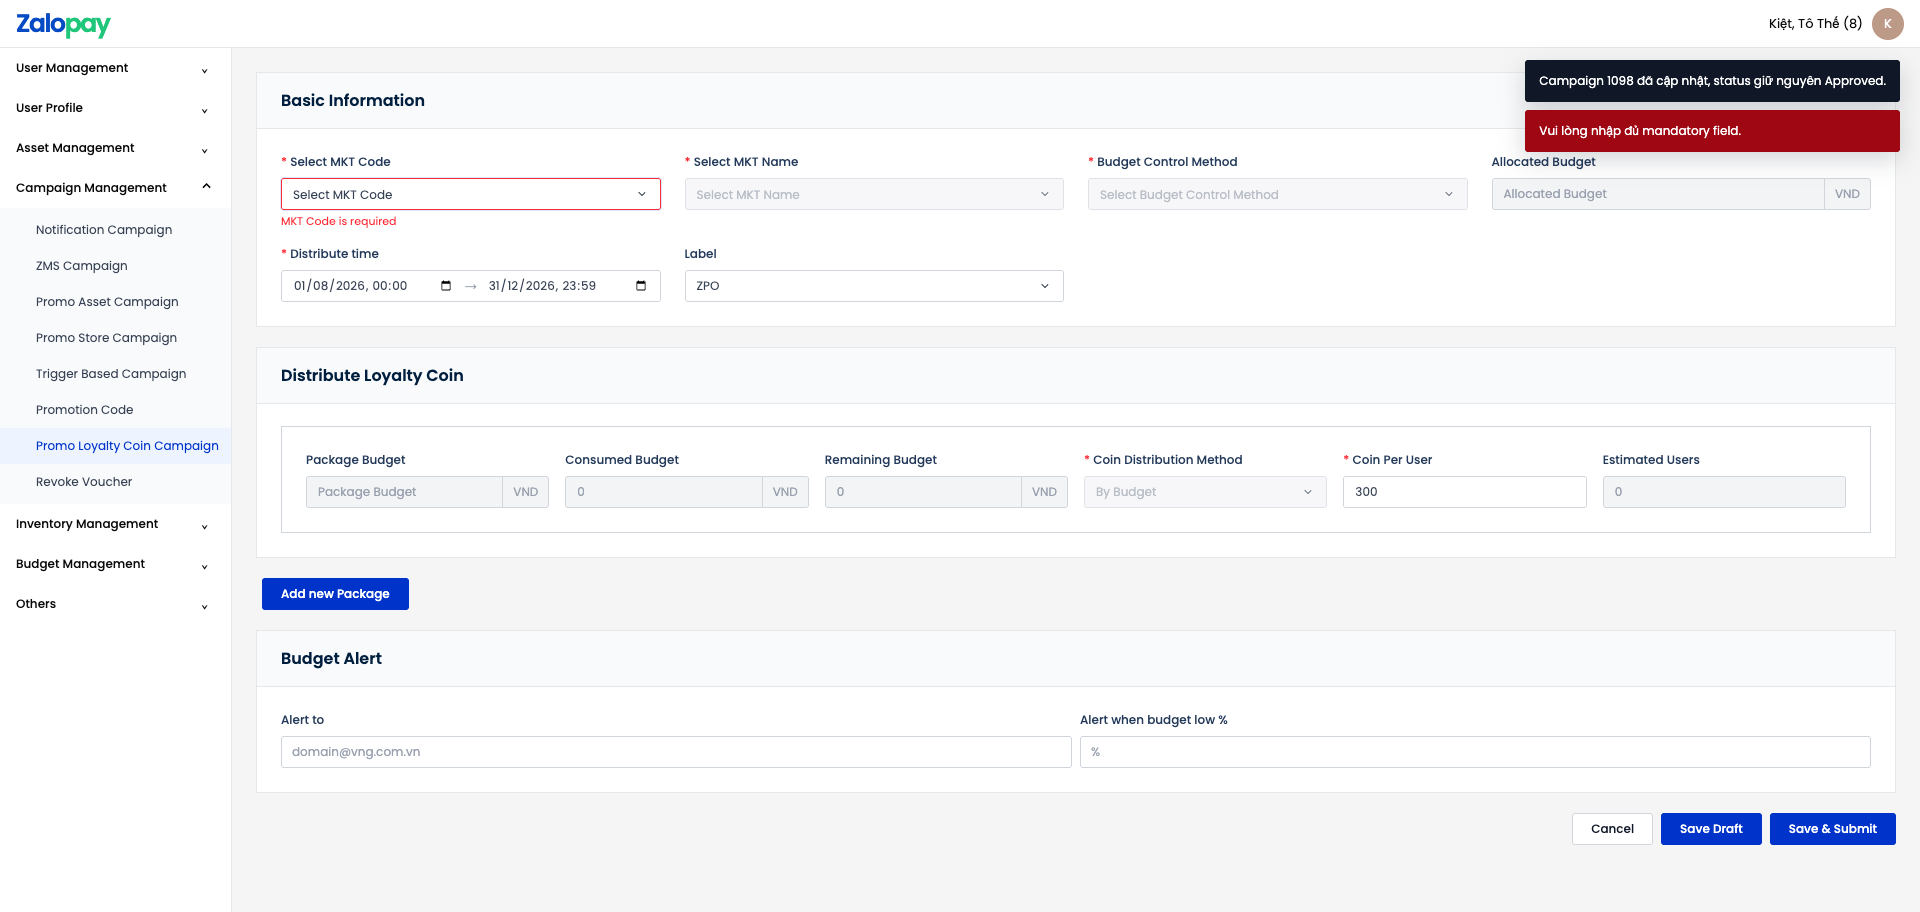
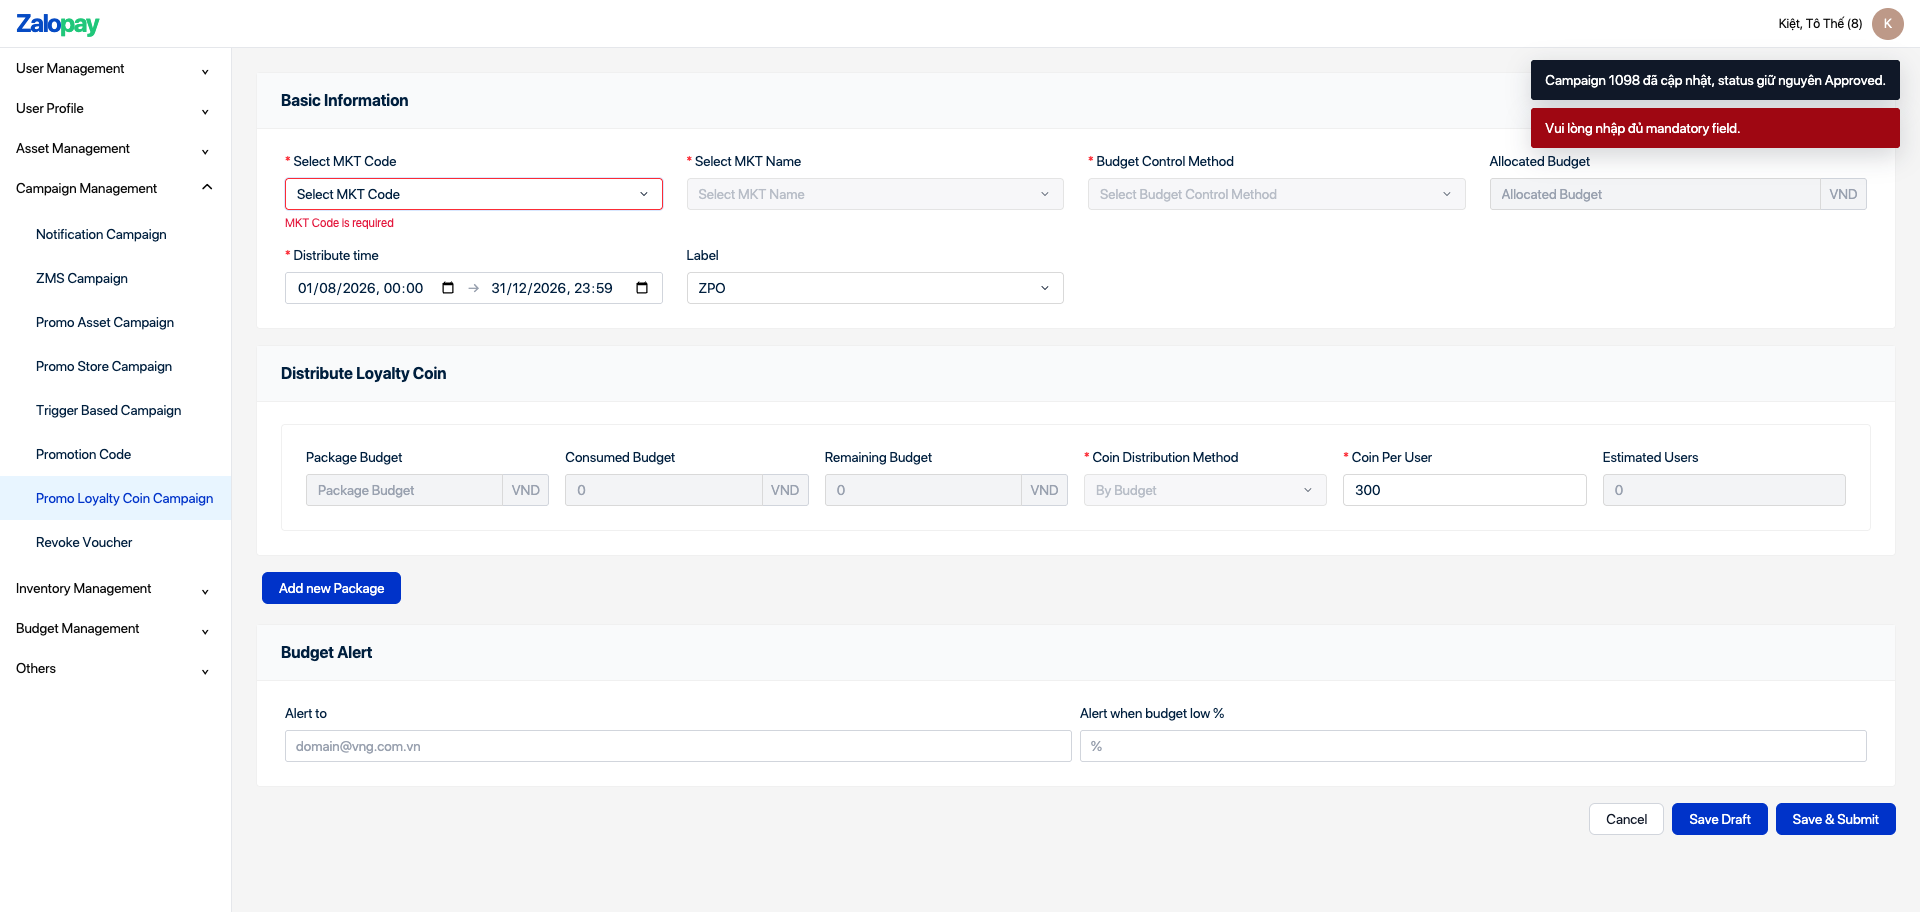
Unify campaign UI with Promo Asset design

diff --git a/styles.css b/styles.css
@@ -17,8 +17,8 @@
 }
 
 * { box-sizing: border-box; }
-html { background: var(--canvas); color: var(--text); font-family: Poppins, Arial, sans-serif; font-size: 12px; }
-body { margin: 0; min-width: 320px; }
+html { background: var(--canvas); color: #001f3e; font-family: "SF Pro Display", "SF Pro Text", -apple-system, BlinkMacSystemFont, "Segoe UI", sans-serif; font-size: 14px; }
+body { margin: 0; min-width: 320px; color: #001f3e; font-size: 14px; }
 button, input, select { font: inherit; color: inherit; }
 button { cursor: pointer; }
 button:disabled { cursor: not-allowed; opacity: .5; }
@@ -32,19 +32,19 @@ button:disabled { cursor: not-allowed; opacity: .5; }
 .menu-toggle { display: none; border: 0; background: transparent; }
 
 .sidebar { position: fixed; left: 0; top: var(--topbar); bottom: 0; width: var(--sidebar); background: white; border-right: 1px solid var(--border); overflow-y: auto; z-index: 40; }
-.sidebar button { width: 100%; height: 40px; border: 0; background: transparent; text-align: left; padding: 0 16px; }
+.sidebar button { width: 100%; height: 40px; border: 0; background: transparent; text-align: left; padding: 0 16px; font-size: 14px; }
 .nav-parent { display: grid; grid-template-columns: 1fr 14px; align-items: center; gap: 8px; color: #0a0a0a; font-weight: 500; }
-.nav-sub { background: var(--panel-head); padding: 4px 0; }
+.nav-sub { background: white; padding: 4px 0; }
 .nav-sub[hidden] { display: none; }
-.nav-sub button { height: 36px; padding-left: 36px; }
+.nav-sub button { height: 44px; padding-left: 36px; }
 .campaign-menu button { white-space: nowrap; }
-.nav-sub button:hover, .nav-sub button.active { background: #edf4ff; color: var(--primary); }
+.nav-sub button:hover, .nav-sub button.active { background: #e8f5ff; color: var(--primary); }
 
 main { margin-left: var(--sidebar); padding-top: var(--topbar); min-height: 100dvh; }
 main:focus { outline: none; }
-.screen { padding: 24px; max-width: 1688px; margin: 0 auto; }
+.screen { padding: 24px; max-width: 1688px; margin: 0 auto; color: #001f3e; font-size: 14px; }
 
-input, select { width: 100%; height: 32px; padding: 0 11px; border: 1px solid var(--control-border); border-radius: var(--radius); background: white; outline: none; }
+input, select { width: 100%; height: 32px; padding: 0 11px; border: 1px solid #d9d9d9; border-radius: 4px; background: white; outline: none; font-size: 14px; }
 select {
   appearance: none;
   -webkit-appearance: none;
@@ -57,28 +57,28 @@ select {
 input::placeholder { color: var(--placeholder); opacity: 1; }
 input:focus, select:focus, .tag-control:focus-within { border-color: #2b7fff; box-shadow: 0 0 0 1px rgba(43,127,255,.18); }
 input:disabled, select:disabled { color: var(--placeholder); background-color: #f3f4f6; cursor: not-allowed; }
-.btn { height: 32px; border-radius: var(--radius); padding: 0 18px; border: 1px solid transparent; font-weight: 500; white-space: nowrap; }
+.btn { height: 32px; border-radius: 6px; padding: 0 16px; border: 1px solid transparent; font-size: 14px; line-height: 22px; font-weight: 400; white-space: nowrap; }
 .btn.primary { background: var(--primary); color: white; }
 .btn.primary:hover { background: #002ba9; }
 .btn.secondary { background: white; color: var(--strong); border-color: var(--control-border); }
 .text-action { height: 32px; border: 0; background: transparent; color: var(--primary); font-weight: 500; }
 
-.filter-panel { min-height: 136px; background: white; padding: 24px; }
-.filter-grid { display: grid; grid-template-columns: repeat(4, minmax(180px, 1fr)); column-gap: 24px; row-gap: 24px; align-items: center; }
+.filter-panel { min-height: 136px; background: white; padding: 24px; border-radius: 4px; }
+.filter-grid { display: grid; grid-template-columns: repeat(4, minmax(180px, 1fr)); column-gap: 32px; row-gap: 24px; align-items: center; }
 .range-field { height: 32px; display: grid; grid-template-columns: 1fr auto 1fr; align-items: center; border: 1px solid var(--control-border); border-radius: var(--radius); background: white; }
 .range-field input { border: 0; height: 30px; min-width: 0; }
 .range-field span { color: var(--placeholder); font-weight: 400; }
 .range-field:has(input:disabled) { background: #f3f4f6; }
 .range-field:has(input:disabled) input { background: transparent; }
 .filter-actions { grid-column: 3 / 5; display: flex; justify-content: flex-end; gap: 12px; }
-.list-panel { min-height: 781px; margin-top: 16px; background: white; padding: 16px 24px 18px; }
+.list-panel { min-height: 781px; margin-top: 16px; background: white; padding: 16px 24px 18px; border-radius: 4px; }
 .list-toolbar { height: 40px; display: flex; justify-content: flex-end; align-items: flex-start; }
 .table-scroll { position: relative; overflow-x: auto; min-height: 650px; }
 table { width: 100%; min-width: 1450px; border-collapse: collapse; table-layout: auto; }
-th { height: 44px; padding: 0 8px; background: var(--panel-head); color: #001f3e; text-align: left; font-size: 12px; font-weight: 500; white-space: nowrap; }
-td { height: 56px; padding: 0 8px; border-bottom: 1px solid var(--border); color: #243a5a; white-space: nowrap; }
+th { height: 48px; padding: 0 8px; background: var(--panel-head); color: #001f3e; text-align: left; font-size: 14px; font-weight: 600; white-space: nowrap; }
+td { height: 56px; padding: 0 8px; border-bottom: 1px solid #f0f0f0; color: #17365d; font-size: 14px; white-space: nowrap; }
 tbody tr:hover { background: #fbfdff; }
-.status { display: inline-flex; height: 22px; align-items: center; border-radius: 2px; padding: 0 9px; color: white; font-size: 11px; }
+.status { display: inline-flex; height: 24px; align-items: center; border-radius: 4px; padding: 0 8px; color: white; font-size: 12px; }
 .status.approved { background: #0033c9; }
 .status.auto-approved { background: #2b7fff; }
 .status.in-use { background: #20a766; }
@@ -95,16 +95,16 @@ tbody tr:hover { background: #fbfdff; }
 .pagination button.active { color: var(--primary-link); }
 
 .form-screen { padding-bottom: 40px; }
-.crm-section { border: 1px solid var(--border); background: white; margin-bottom: 20px; }
-.crm-section > h1, .action-detail > h1 { height: 56px; display: flex; align-items: center; margin: 0; padding: 0 24px; background: var(--panel-head); border-bottom: 1px solid var(--border); color: #001f3e; font-size: 16px; font-weight: 600; }
+.crm-section { border: 1px solid #f0f0f0; border-radius: 4px; background: white; margin-bottom: 16px; }
+.crm-section > h1, .action-detail > h1 { height: 56px; display: flex; align-items: center; margin: 0; padding: 0 24px; background: var(--panel-head); border-bottom: 1px solid #f0f0f0; color: #001f3e; font-size: 16px; font-weight: 600; }
 .section-title-row { justify-content: space-between; }
-.section-content { padding: 24px; }
+.section-content { padding: 24px 28px; }
 .basic-fields { display: grid; grid-template-columns: repeat(4, minmax(160px, 1fr)); gap: 16px 24px; }
-.field { display: flex; flex-direction: column; gap: 7px; min-width: 0; }
-.field > span { color: #243a5a; font-weight: 500; }
+.field { display: flex; flex-direction: column; gap: 8px; min-width: 0; color: #001f3e; }
+.field > span { min-height: 17px; color: #001f3e; line-height: 17px; font-weight: 400; }
 .field.required > span::before { content: "* "; color: var(--danger); }
 .field small { color: var(--muted); font-size: 10px; min-height: 13px; }
-.field .field-error { color: var(--danger); font-size: 11px; line-height: 1.35; min-height: 0; margin-top: -3px; }
+.field .field-error { color: #e3173c; font-size: 12px; line-height: 16px; min-height: 0; margin-top: -3px; }
 .field.invalid input, .field.invalid select { border-color: var(--danger); }
 .field.invalid .range-field { border-color: var(--danger); }
 .field.invalid .suffix-input b { border-color: var(--danger); }
@@ -113,7 +113,7 @@ tbody tr:hover { background: #fbfdff; }
 .suffix-input input { border-radius: 3px 0 0 3px; }
 .suffix-input b { display: grid; place-items: center; border: 1px solid var(--control-border); border-left: 0; border-radius: 0 3px 3px 0; color: var(--placeholder); background: #f3f4f6; font-weight: 400; }
 .package-block { position: relative; }
-.package-inner { border: 1px solid var(--control-border); margin: 22px 24px 24px; padding: 24px; }
+.package-inner { border: 1px solid #f0f0f0; border-radius: 4px; margin: 22px 24px 24px; padding: 24px; }
 .package-fields { display: grid; grid-template-columns: repeat(6, minmax(125px, 1fr)); gap: 18px 16px; align-items: start; }
 .package-fields:has(.pkg-present) { grid-template-columns: repeat(7, minmax(112px, 1fr)); }
 .package-fields .package-budget { grid-column: 1; }
@@ -157,18 +157,7 @@ tbody tr:hover { background: #fbfdff; }
 .toast { min-width: 320px; max-width: 460px; padding: 12px 14px; background: #101828; color: white; border-radius: 3px; box-shadow: 0 8px 24px rgba(16,24,40,.18); }
 .toast.error { background: #9f0712; }
 
-/* Promo Asset Campaign — Figma node 1182:125 */
-body.asset-mode,
-body.asset-mode button,
-body.asset-mode input,
-body.asset-mode select { font-family: "SF Pro Display", "SF Pro Text", -apple-system, BlinkMacSystemFont, "Segoe UI", sans-serif; }
-body.asset-mode { color: #001f3e; font-size: 14px; }
-body.asset-mode .topbar { border-color: #e5e7eb; }
-body.asset-mode .sidebar button { font-size: 14px; }
-body.asset-mode .nav-sub { background: #fff; }
-body.asset-mode .nav-sub button { height: 44px; }
-body.asset-mode .nav-sub button:hover,
-body.asset-mode .nav-sub button.active { background: #e8f5ff; color: #0033c9; }
+/* Promo Asset Campaign — Figma node 1182:125; global visual baseline */
 
 .asset-screen { max-width: 1688px; padding: 24px; color: #001f3e; font-size: 14px; }
 .asset-screen input,

diff --git a/index.html b/index.html
@@ -6,9 +6,6 @@
   <meta name="color-scheme" content="light">
   <title>Loyalty Coin Campaign Demo</title>
   <link rel="icon" href="data:,">
-  <link rel="preconnect" href="https://fonts.googleapis.com">
-  <link rel="preconnect" href="https://fonts.gstatic.com" crossorigin>
-  <link href="https://fonts.googleapis.com/css2?family=Poppins:wght@400;500;600&display=swap" rel="stylesheet">
   <link rel="stylesheet" href="styles.css">
 </head>
 <body>
@@ -116,7 +113,7 @@
           <div class="asset-dialog-heading"><h1 id="assetChoiceTitle">How you want to distribute the voucher</h1><button value="cancel" aria-label="Close dialog" class="asset-dialog-close">×</button></div>
           <label class="asset-choice"><input type="radio" name="distributionChoice" value="massive" checked><span><strong>Distribute Massive</strong><small>Schedule to distribute reward to a specific user segment!</small></span></label>
           <label class="asset-choice"><input type="radio" name="distributionChoice" value="trigger"><span><strong>Distribute based on action trigger</strong><small>After user perform an action, distribute reward to user!</small></span></label>
-          <label class="asset-choice"><input type="radio" name="distributionChoice" value="coin-trigger"><span><strong>Distribute coin by on action trigger</strong><small>After user performs an action, distribute coin to user!</small></span></label>
+          <label class="asset-choice"><input type="radio" name="distributionChoice" value="coin-trigger"><span><strong>Distribute coin based on action trigger</strong><small>After user performs an action, distribute coin to user!</small></span></label>
           <label class="asset-choice"><input type="radio" name="distributionChoice" value="direct-discount"><span><strong>Direct Discount</strong><small>Users only see and apply discount at checkout page.</small></span></label>
           <div class="asset-dialog-actions"><button value="cancel" class="asset-btn secondary">Cancel</button><button value="confirm" class="asset-btn primary" id="confirmAssetType">OK</button></div>
         </form>

diff --git a/README.md b/README.md
@@ -19,7 +19,7 @@ http://127.0.0.1:4173
 ## Flow có thể demo
 
 1. Promo Asset Campaign: Campaign List → Add new → chọn Distribute Massive → Massive form.
-2. Promo Asset Campaign: Campaign List → Add new → chọn Distribute coin by on action trigger → Create Loyalty Coin Campaign.
+2. Promo Asset Campaign: Campaign List → Add new → chọn Distribute coin based on action trigger → Create Loyalty Coin Campaign.
 3. Loyalty Coin Campaign List: Search, Reset, Collapse, View và Edit.
 4. Create Loyalty Coin Campaign: Shared/Non-shared budget, Control by Campaign/Package.
 5. Distribution Package: By Budget, Add/Remove, max 10 package và tự tính budget.
